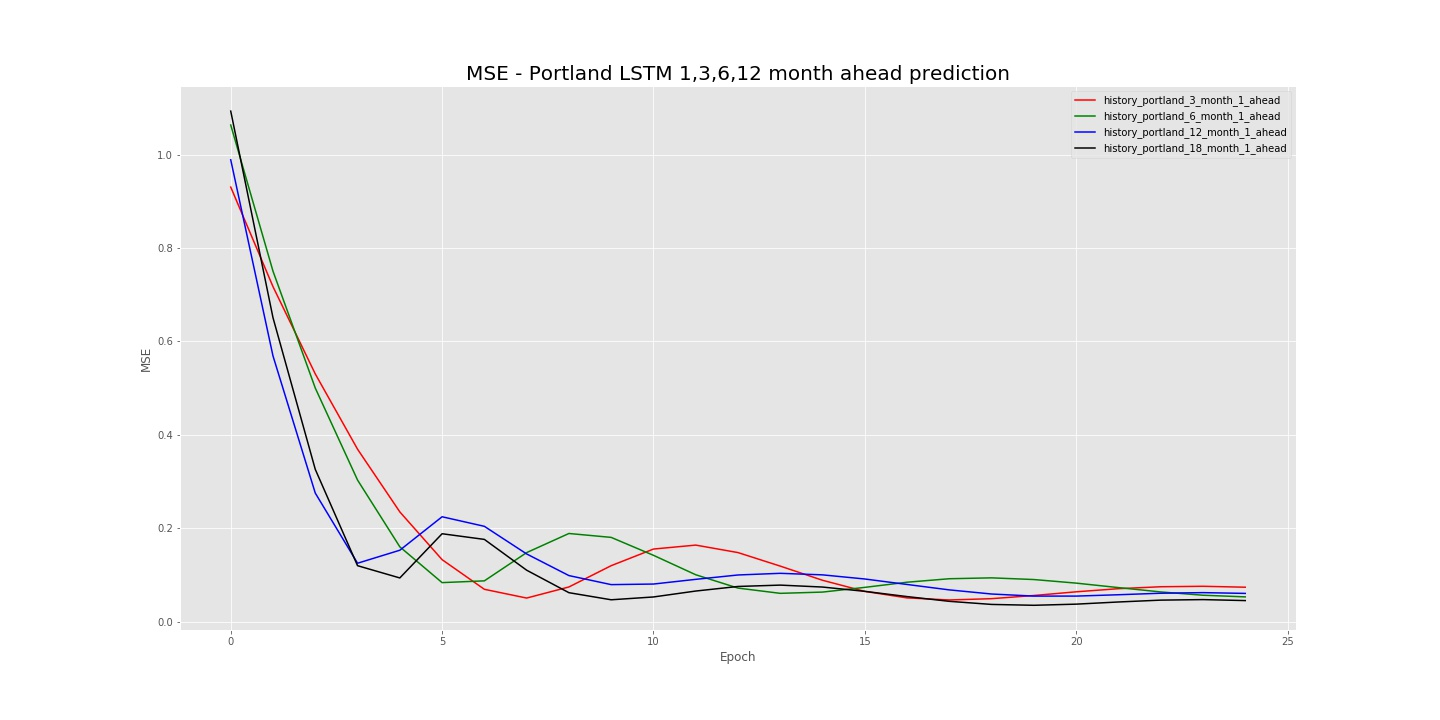
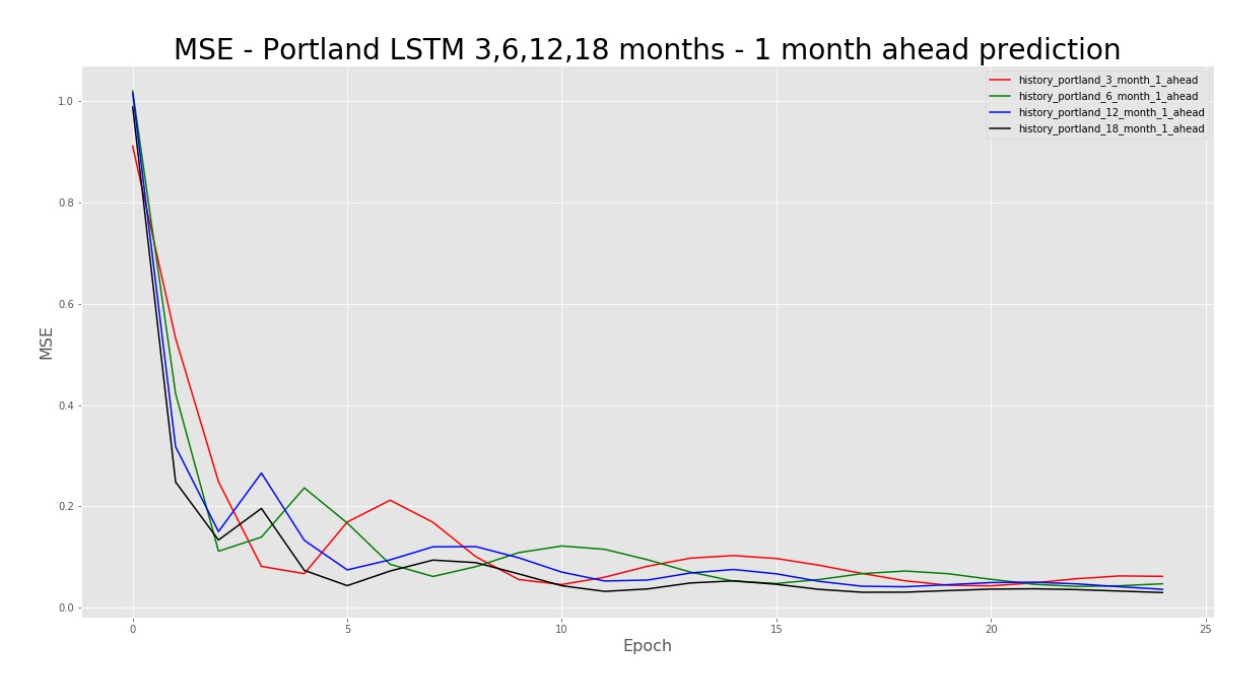
edit CTR model 3 add image

Changed region(s): [[0.0311, 0.0312, 0.9936, 0.9659], [0.4037, 0.7166, 0.4347, 0.7478]]

diff --git a/Capstone_Technical_Report.md b/Capstone_Technical_Report.md
@@ -73,7 +73,7 @@ San Francisco 6 month input data was used as a feature to predict the San Franci
 
 3. Increase inputs using 3, 6, 12, 18 months of data for prediction (Does more data improve the MSE?)
 
-![alt text](https://github.com/jchiu1013/Housing_Capstone/blob/master/Images/SF_LSTM_6_month.jpeg "SF LSTM 6 month")
+![alt text](https://github.com/jchiu1013/Housing_Capstone/blob/master/Images/MSE%20-%20Portland%20LSTM%201%203%206%2012%20month%20ahead%20prediction.jpg "SF LSTM 6 month")
 ![alt text](https://github.com/jchiu1013/Housing_Capstone/blob/master/Images/SF_LSTM_6_month.jpeg "SF LSTM 6 month")
 ![alt text](https://github.com/jchiu1013/Housing_Capstone/blob/master/Images/SF_LSTM_6_month.jpeg "SF LSTM 6 month")
 
